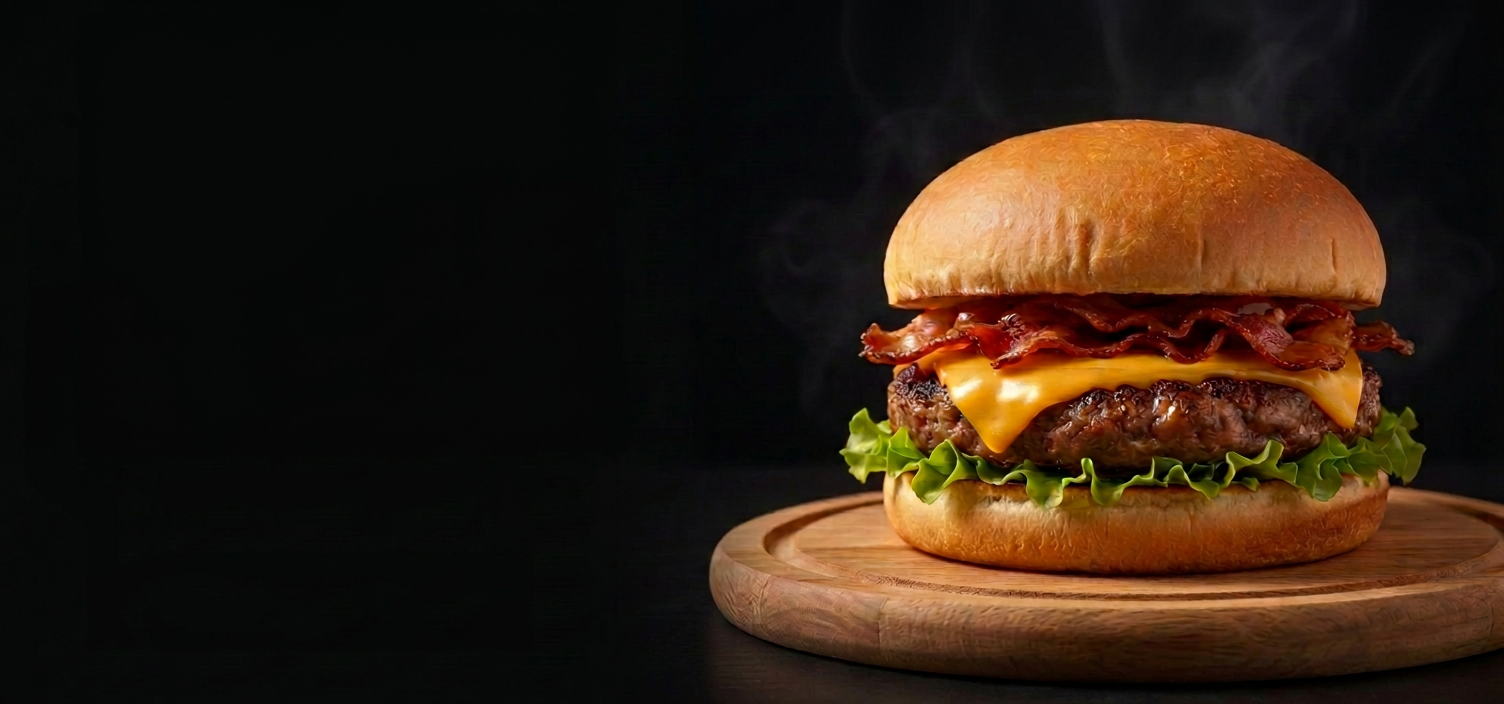
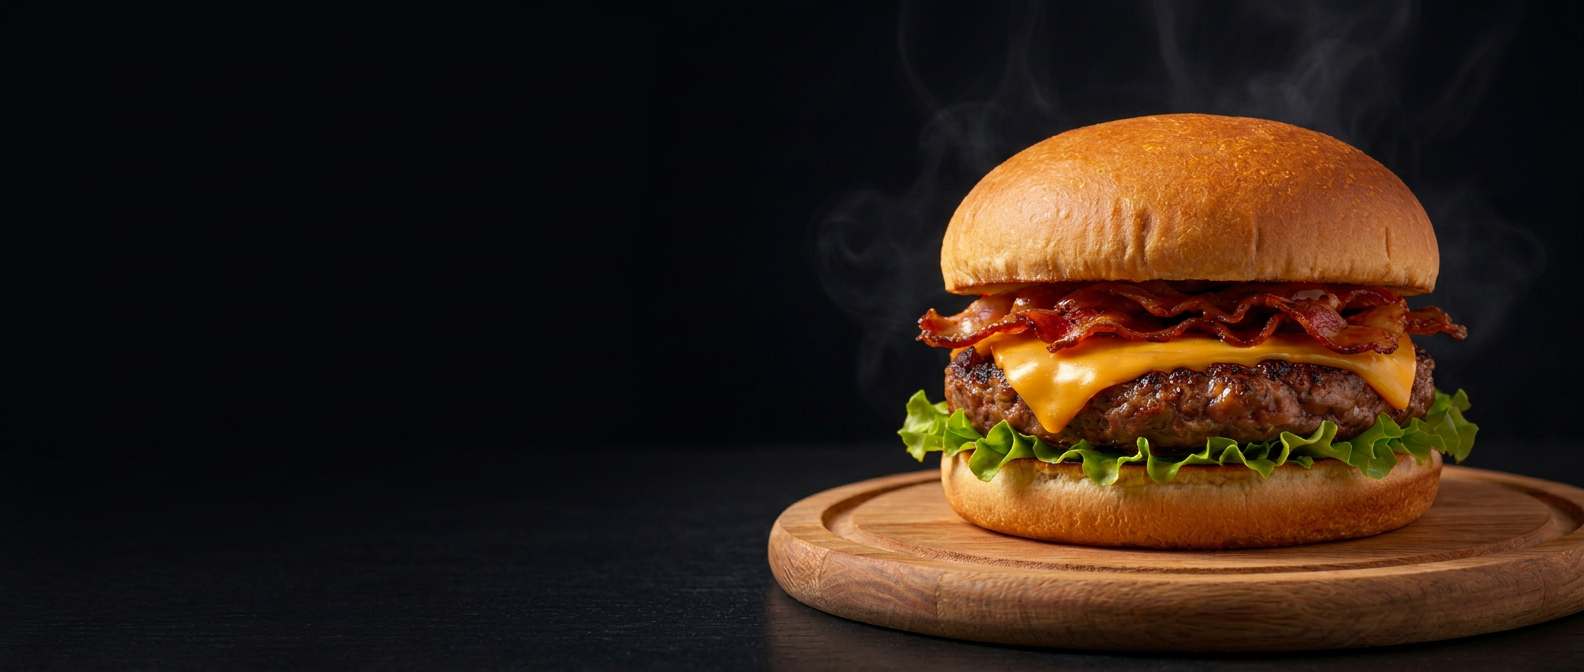
chaged the color of start your order now button

Changed region(s): [[0.375, 0.1562, 1.0, 0.9688], [0.9688, 0.9062, 1.0, 0.9375], [0.7812, 0.8125, 0.8125, 0.8438]]

diff --git a/frontend/css/impeccable.css b/frontend/css/impeccable.css
@@ -13438,23 +13438,30 @@ site-header.site-header.site-header-scrolled .brand-logo img {
 
 .contact-order-cta .btn-contact-order,
 .contact-order-cta a.btn-primary {
+  background: #c54424 !important;
+  background-color: #c54424 !important;
+  color: #ffffff !important;
+  border: none !important;
   border-radius: 9999px !important;
-  padding: 11px 26px !important;
+  padding: 12px 28px !important;
   font-family: var(--font-heading, inherit) !important;
   font-size: 0.95rem !important;
-  font-weight: 600 !important;
+  font-weight: 700 !important;
   text-decoration: none !important;
   display: inline-flex !important;
   align-items: center !important;
   justify-content: center !important;
-  box-shadow: 0 3px 10px rgba(200, 72, 37, 0.28) !important;
+  box-shadow: 0 3px 14px rgba(197, 68, 36, 0.35) !important;
   transition: transform 160ms ease, box-shadow 160ms ease, background-color 160ms ease !important;
 }
 
 .contact-order-cta .btn-contact-order:hover,
 .contact-order-cta a.btn-primary:hover {
-  transform: translateY(-2px) !important;
-  box-shadow: 0 5px 16px rgba(200, 72, 37, 0.42) !important;
+  background: #d44d2b !important;
+  background-color: #d44d2b !important;
+  color: #ffffff !important;
+  transform: translateY(-1px) !important;
+  box-shadow: 0 6px 22px rgba(197, 68, 36, 0.5) !important;
 }
 
 .contact-order-cta .btn-contact-review,
